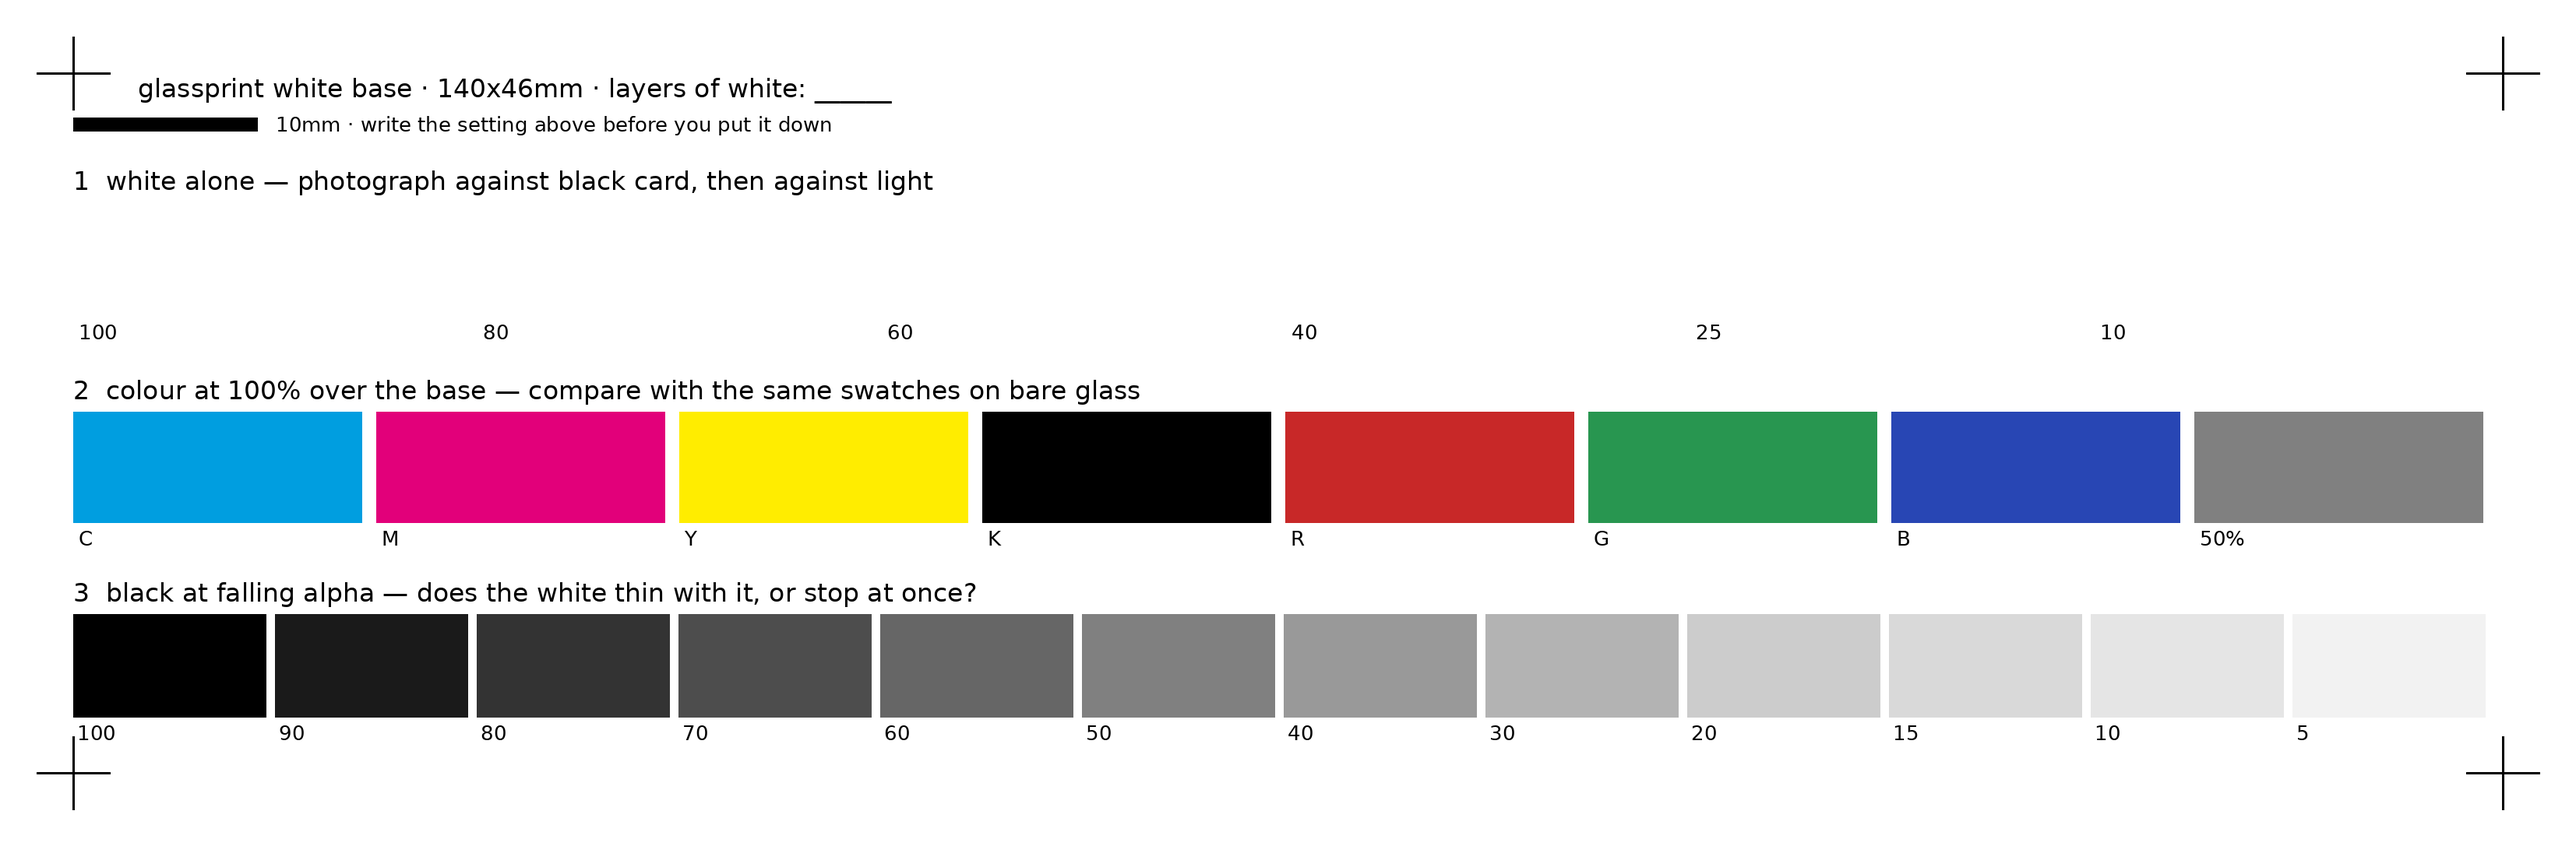
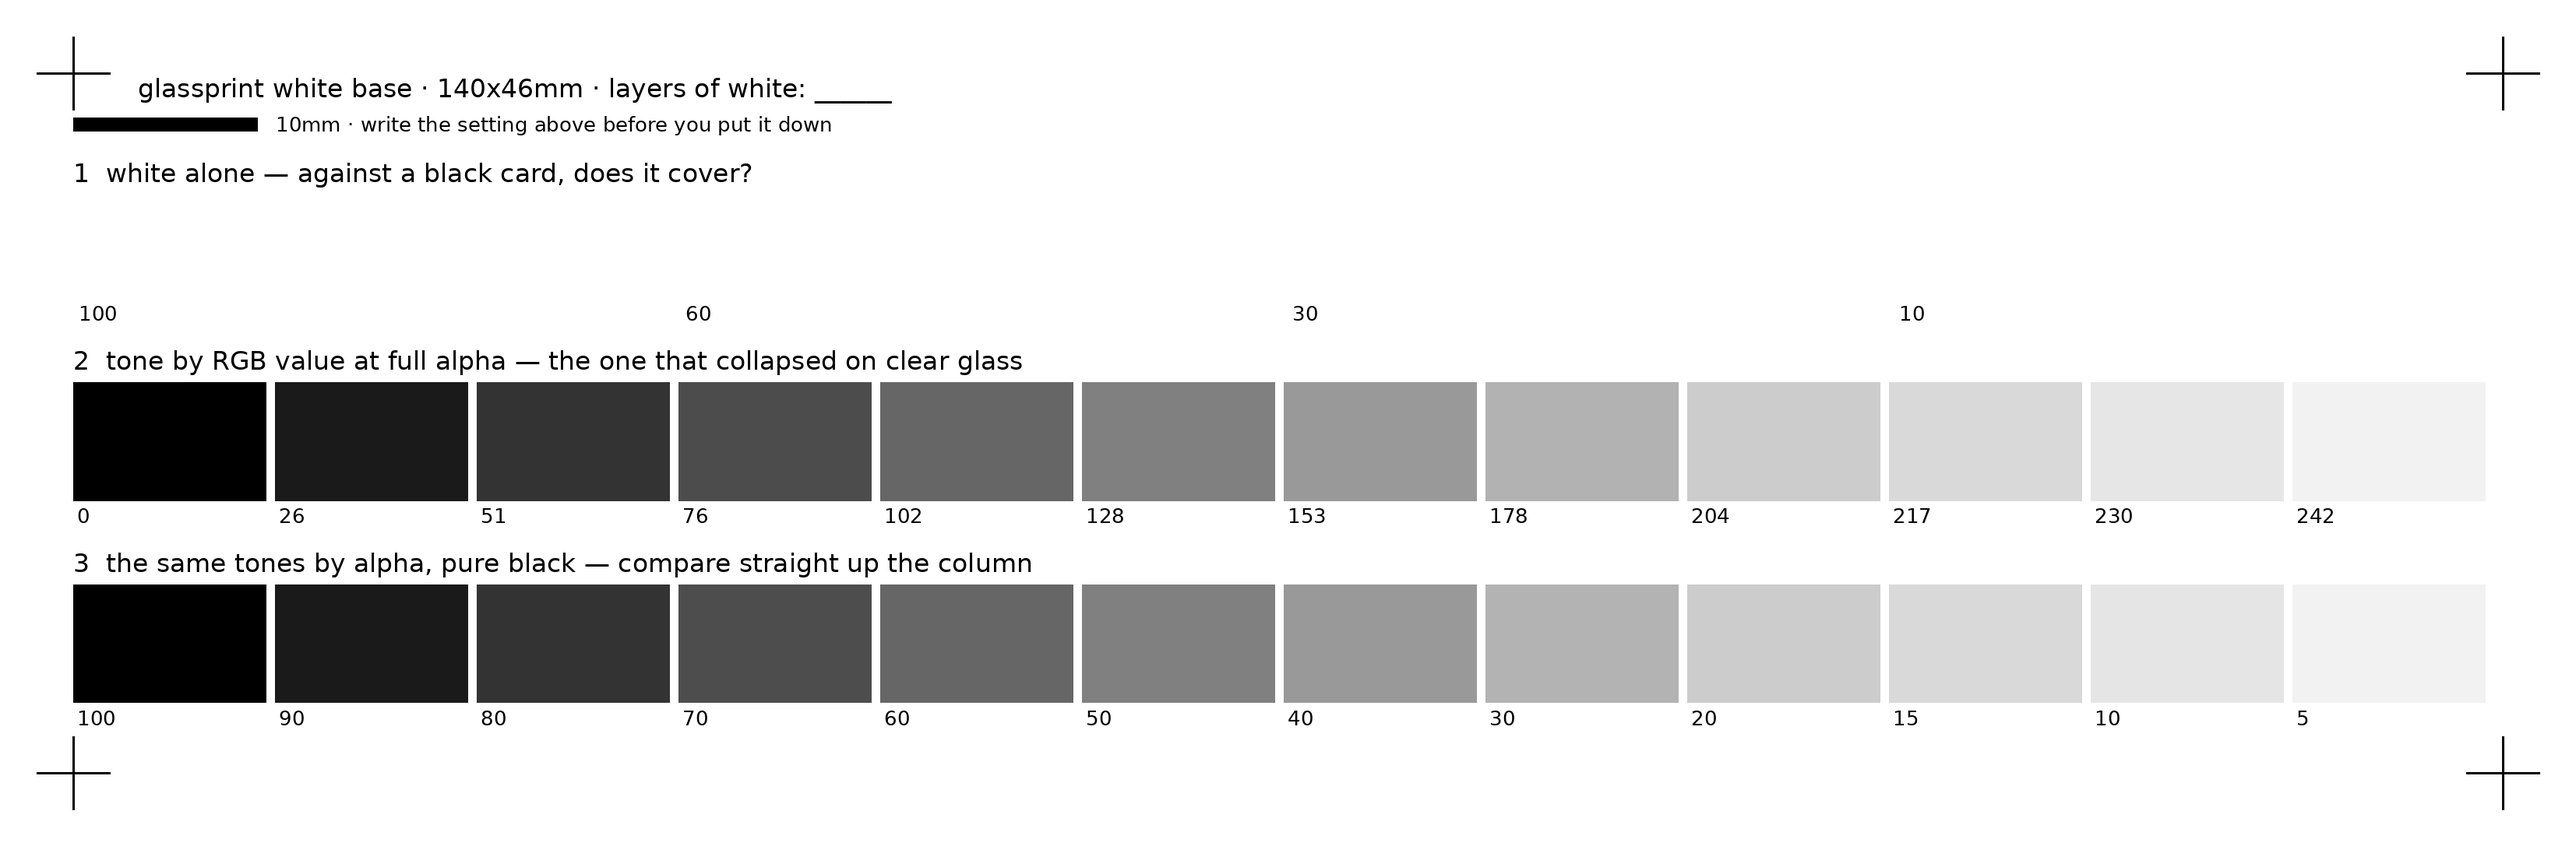
Rebuild the white-base tile around the row that turned out to matter
The first version asked how opaque the base is and whether alpha thins
it. It answered both — opaque from one layer, alpha does not thin it —
and missed the question that decides everything, because that one only
surfaced later.

Reading a chart properly showed that on clear green glass with no white
base, every grey from 224 down to 32 transmits between 82% and 100%, and
only pure black drops, to 8%. Nearly the whole tonal range collapses.
The cause is spectral: tinted glass passes a narrow band, and the ink's
absorption inside that band is slight, so only black — which absorbs
everywhere — reaches the eye.

So the tile now carries a grey ramp by RGB value directly above the same
ramp by alpha, sharing a column each. One glance down a column says
which mechanism is carrying tone on that substrate.

Both ramps run dark to light. Built the obvious way they opposed each
other, so column one compared a black against a white and the alignment
the rows exist for was worse than useless.

The colour row is gone. Three tonal rows do not fit beside it in 46mm,
and colour already has a better instrument in the 84x41mm chart, which
measures it rather than showing it and has an opaque mode of its own.

Claude-Session: https://claude.ai/code/session_018DX16g1SdfUeDuaLsWycXy

diff --git a/tools/make_test_target.py b/tools/make_test_target.py
@@ -339,29 +339,33 @@ WHITE_TEST_INKS = [
 
 
 def white_test(width_mm: float = 140.0, height_mm: float = 46.0) -> Raster:
-    """How much white to put underneath — and what the in-between looks like.
+    """How much white to put underneath, and whether any tone survives without it.
 
-    All the glaze work so far has been at one end of a dial: no white at all,
-    where the glass supplies the colour and the piece is genuinely transparent.
-    The other end is five layers of white, where the glass has stopped
-    mattering and the machine is printing on something that behaves like card.
-    The first plate printed here was at that end, and the tests since have all
-    been at the other.
+    The first version of this tile asked how opaque the base is and whether
+    alpha thins it. It answered both — the base is opaque from one layer, and
+    alpha does not thin it — and in doing so missed the question that turned out
+    to matter.
 
-    Nobody has looked at the middle, and the middle is the part a UV printer on
-    glass can do that neither paper nor a lightbox can: a base thin enough to
-    still pass light, so the piece reads one way lit from behind and another way
-    lit from the front. That is a material effect, not a colour-accuracy one,
-    and it will not show up in any measurement taken through a lightbox alone.
+    That one only surfaced when a chart was finally read properly: on clear
+    green glass with no white base, every grey from 224 down to 32 transmitted
+    between 82% and 100%, and only pure black dropped, to 8%. Nearly the whole
+    tonal range collapses into nothing, and the reason is spectral — tinted
+    glass passes a narrow band, and the ink's absorption inside that band is
+    slight. Only black, which absorbs everywhere, gets through to the eye.
 
-    The file cannot set the layer count — that is a printer setting — so this
-    tile is meant to be printed several times, once per setting, and the title
-    has a blank to write it in. What the file *can* vary is alpha, which is what
-    drives the underbase, so that gets a row of its own: if alpha thins the white
-    as well as the colour, the dial is in the artwork and not only in the RIP.
+    So the row that decides everything is a **grey ramp by RGB value**, and it
+    is set directly beneath the same ramp by alpha, sharing a column each. One
+    glance down a column says which of the two mechanisms is carrying tone on
+    this substrate — and on which substrates either of them does.
 
-    Read every plate twice: once against a black card, which shows how opaque
-    the base is, and once backlit, which shows how much light still gets past.
+    Opaque glass is the case worth running it on. Light crosses the ink, hits
+    the glass and comes back, so the ink acts twice; and it is a diffuse
+    reflector rather than a filter, so there is a ground to work against. Both
+    argue for more range than clear glass gave. Whether that is enough to print
+    tone on without any white at all is exactly what the tile is for.
+
+    The layer count is a printer setting, not something a file can carry, so
+    this gets printed once per setting with the number written in the blank.
     """
     canvas_w, canvas_h = mm(width_mm), mm(height_mm)
     canvas = Image.new("RGBA", (canvas_w, canvas_h), (0, 0, 0, 0))
@@ -375,50 +379,62 @@ def white_test(width_mm: float = 140.0, height_mm: float = 46.0) -> Raster:
     def label(text: str, x: int, top_mm: float, chosen=None) -> None:
         draw.text((x, mm(top_mm)), text, font=chosen or small, fill=(*INK, 255))
 
-    label(f"glassprint white base · {width_mm:.0f}x{height_mm:.0f}mm · layers of white: ______", left + mm(3.5), y)
+    label(
+        f"glassprint white base · {width_mm:.0f}x{height_mm:.0f}mm · layers of white: ______",
+        left + mm(3.5),
+        y,
+    )
     y += 2.4
     draw.rectangle([left, mm(y), left + mm(10), mm(y) + mm(0.7)], fill=(*INK, 255))
     label("10mm · write the setting above before you put it down", left + mm(11), y - 0.3, tiny)
-    y += 2.6
+    y += 2.2
 
     # -- 1. how opaque is the base on its own? -------------------------------
-    #
-    # White ink and nothing else. Against a black card this reads as white if
-    # the base is covering and grey if it is not, which is the whole question
-    # and needs no instrument to answer.
-    label("1  white alone — photograph against black card, then against light", left, y)
+    label("1  white alone — against a black card, does it cover?", left, y)
     y += 2.0
-    block_w = width // 6
-    for index, alpha in enumerate([100, 80, 60, 40, 25, 10]):
-        x = left + index * block_w
+    block = width // 4
+    for index, alpha in enumerate([100, 60, 30, 10]):
+        x = left + index * block
         draw.rectangle(
-            [x, mm(y), x + block_w - mm(1.2), mm(y + 6.2)],
+            [x, mm(y), x + block - mm(1.2), mm(y + 5.6)],
             fill=(255, 255, 255, round(alpha * 2.55)),
         )
-        label(f"{alpha}", x + mm(0.3), y + 6.4, tiny)
-    y += 9.4
+        label(f"{alpha}", x + mm(0.3), y + 5.8, tiny)
+    y += 8.2
 
-    # -- 2. colour over the base ---------------------------------------------
-    label("2  colour at 100% over the base — compare with the same swatches on bare glass", left, y)
+    # -- 2 and 3. the same tones, two mechanisms, aligned column by column ----
+    #
+    # Aligned on purpose. Whichever row still has a range on this substrate is
+    # the one to build fades out of, and reading that off needs the two side by
+    # side rather than on separate plates a week apart.
+    step = width // len(TONES)
+    label("2  tone by RGB value at full alpha — the one that collapsed on clear glass", left, y)
     y += 2.0
-    swatch = width // len(WHITE_TEST_INKS)
-    for index, (name, rgb) in enumerate(WHITE_TEST_INKS):
-        x = left + index * swatch
-        draw.rectangle([x, mm(y), x + swatch - mm(0.8), mm(y + 6.0)], fill=(*rgb, 255))
-        label(name, x + mm(0.3), y + 6.2, tiny)
+    for index, percent in enumerate(TONES):
+        # Inverted against the percentage, so this row runs dark to light like
+        # the alpha row beneath it. Printed the other way round the two ramps
+        # oppose each other and the columns compare a black against a white,
+        # which is exactly what the alignment exists to avoid.
+        value = round(255 * (100 - percent) / 100.0)
+        x = left + index * step
+        draw.rectangle([x, mm(y), x + step - mm(0.5), mm(y + 6.4)], fill=(value, value, value, 255))
+        label(str(value), x + mm(0.2), y + 6.6, tiny)
     y += 9.0
 
-    # -- 3. does alpha thin the base too? ------------------------------------
-    label("3  black at falling alpha — does the white thin with it, or stop at once?", left, y)
+    label("3  the same tones by alpha, pure black — compare straight up the column", left, y)
     y += 2.0
-    step = width // len(TONES)
     for index, percent in enumerate(TONES):
         x = left + index * step
         draw.rectangle(
-            [x, mm(y), x + step - mm(0.5), mm(y + 5.6)], fill=(*INK, round(percent * 2.55))
+            [x, mm(y), x + step - mm(0.5), mm(y + 6.4)], fill=(*INK, round(percent * 2.55))
         )
-        label(str(percent), x + mm(0.2), y + 5.8, tiny)
-    y += 8.0
+        label(str(percent), x + mm(0.2), y + 6.6, tiny)
+    y += 9.4
+
+    # Colour used to have a row here and no longer does. Three tonal rows do not
+    # fit beside it in 46mm, and colour already has a better instrument: the
+    # 84x41mm chart, which measures it properly rather than by eye and has an
+    # "opaque" mode of its own. One tile per question.
 
     if y > height_mm - MARGIN_MM:
         raise SystemExit(
